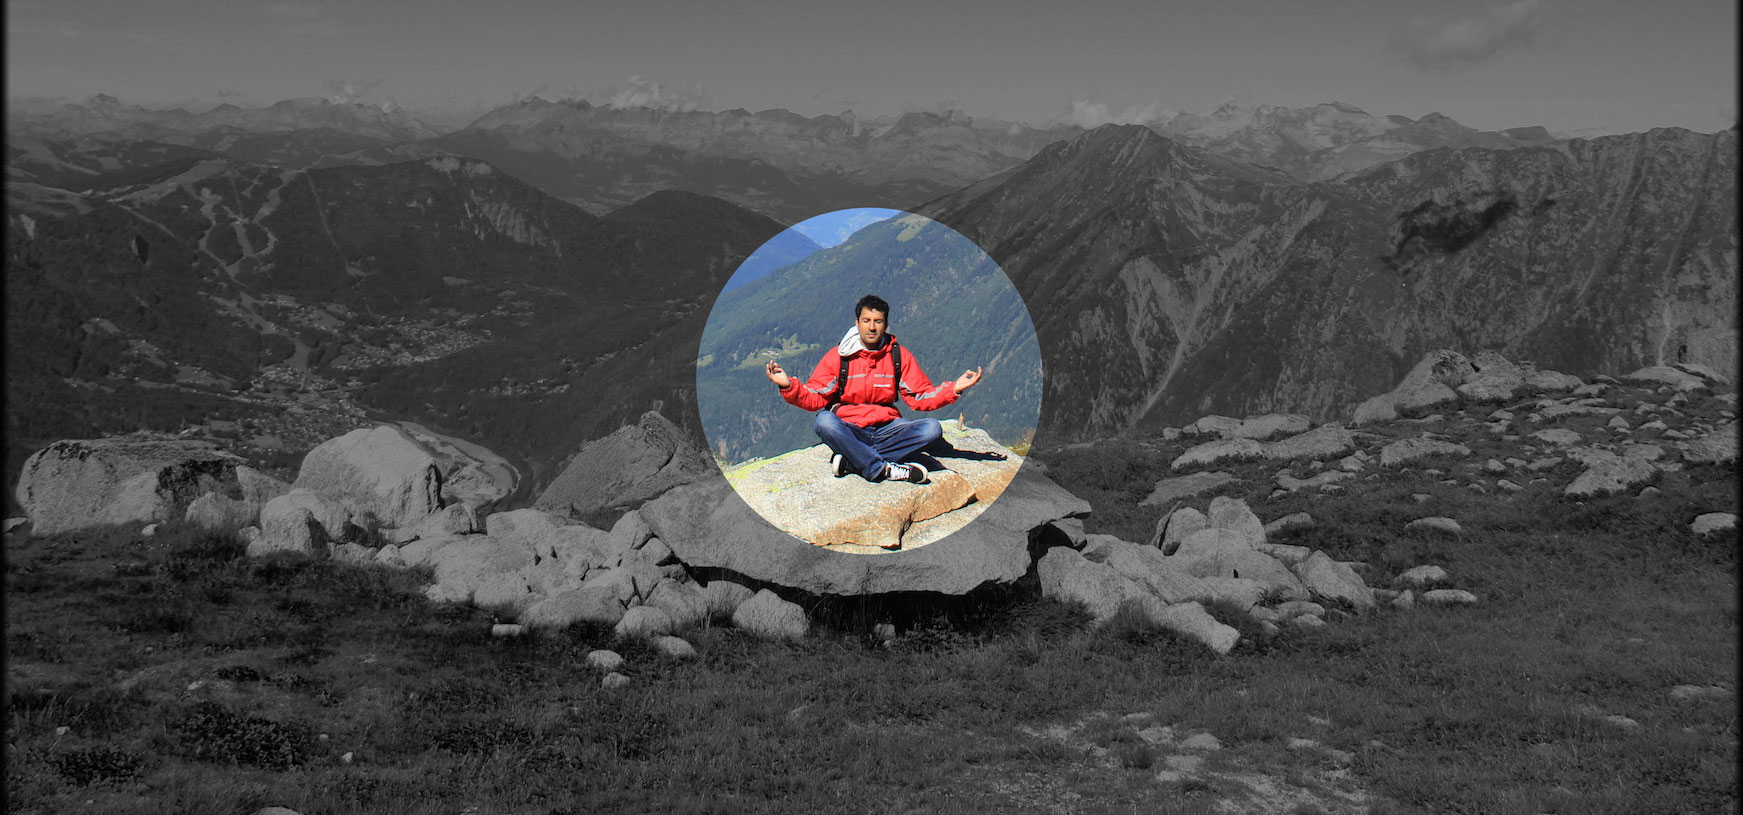
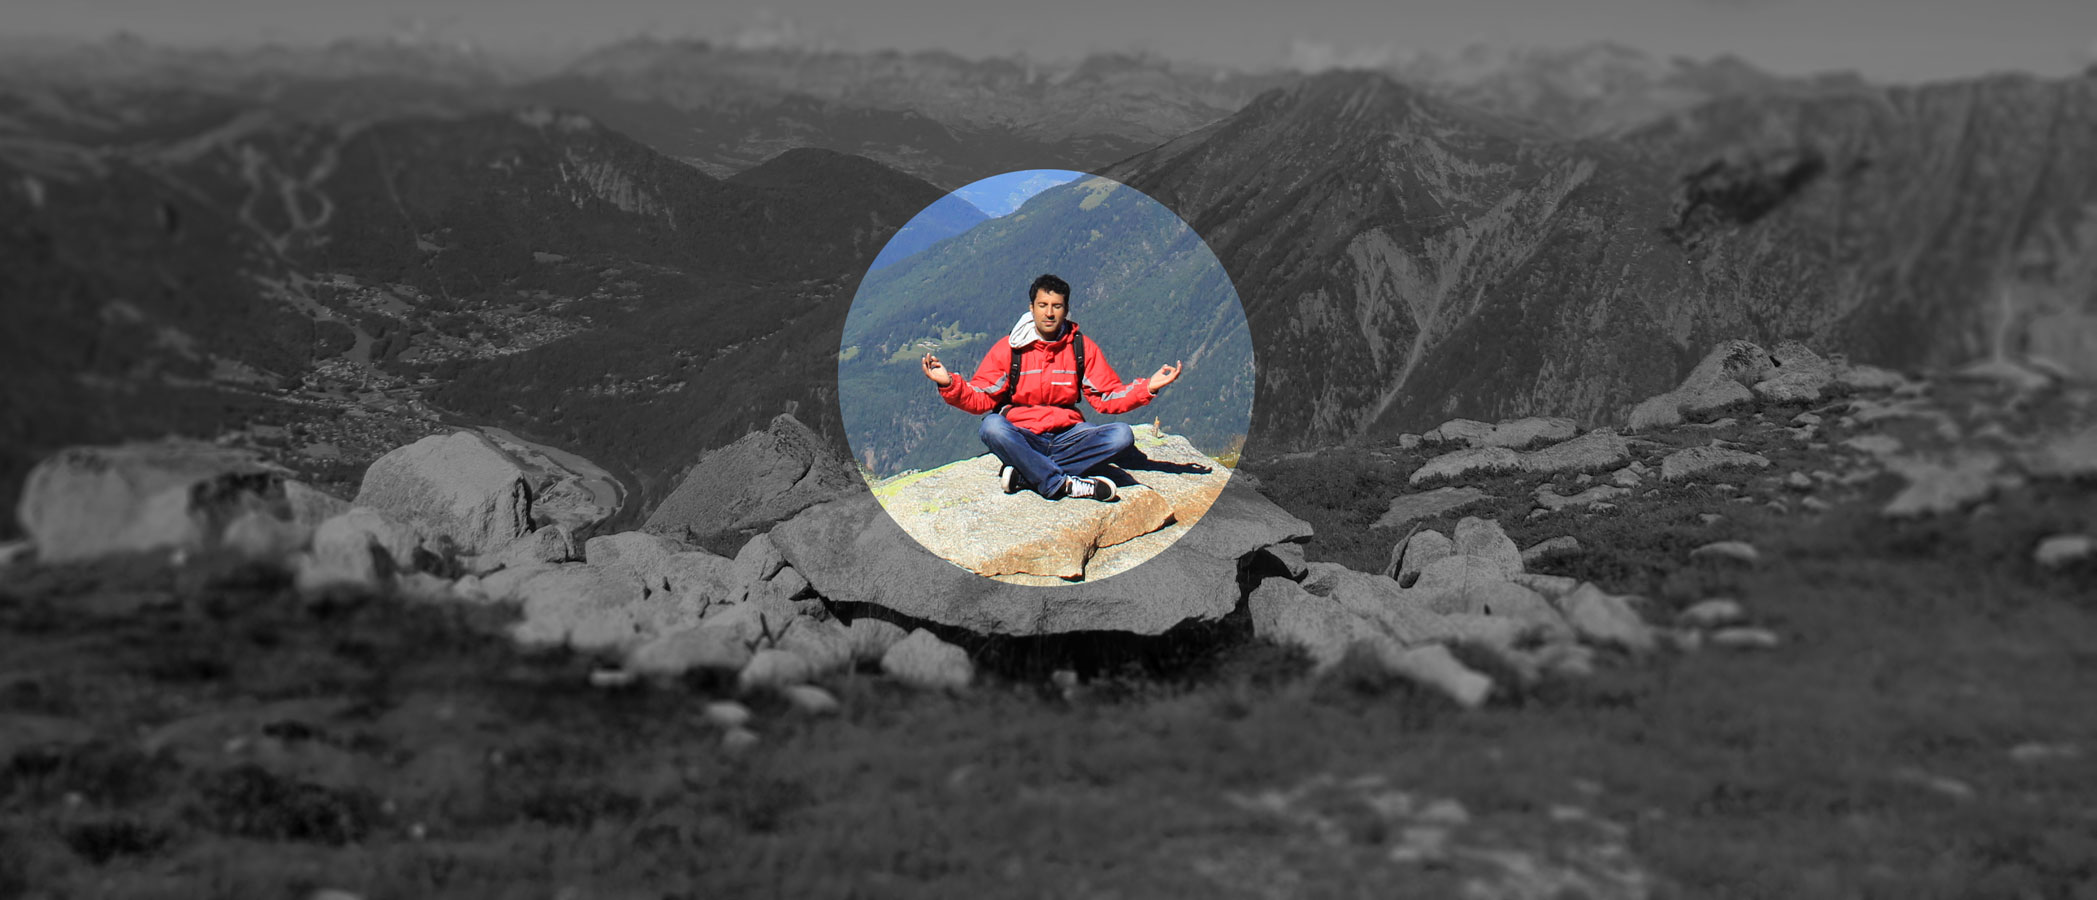
Improve header responsiveness/spacing.

diff --git a/app/styles/main.scss b/app/styles/main.scss
@@ -54,9 +54,7 @@ header {
   position: relative;
   width: 100%;
   height: 100%;
-  // iPhone 5 portrait
-  min-height: 568px;
-  max-height: 800px;
+  min-height: 620px;
   text-align: center;
   color: #fff;
   background-image: url("../images/header-background.jpg");
@@ -75,11 +73,18 @@ header {
     text-shadow: 0 1px 3px rgba(0, 0, 0, .8);
     margin: 0;
   }
+  h2 {
+    font-size: 40px;
+    font-weight: bold;
+    text-align: center;
+    text-shadow: 0 1px 3px rgba(0, 0, 0, .8);
+    margin: 0;
+  }
   p {
-    margin: 10px 0;
+    margin: 10px 0 6px;
   }
   .social {
-    margin: 10px 0 0;
+    margin: 0;
     padding: 0;
     font-size: 34px;
     text-shadow: 0 1px 2px rgba(0, 0, 0, .8);
@@ -119,31 +124,25 @@ header {
   position: absolute;
   width: 100%;
   // Half way between the top of the circle and the top of the div.
-  top: 16%;
-  // Roughly 50% of the div content height.
-  margin-top: -23px;
+  top: 9%;
 }
 .header-content-bottom {
   position: absolute;
   width: 100%;
-  bottom: 16%;
-  margin-bottom: -84px;
+  bottom: 4%;
 }
 @media(min-width: $screen-sm-min) {
   header {
     h1 {
       font-size: 60px;
     }
-  }
-  .header-content-top {
-    margin-top: -28px;
-  }
-  .header-content-bottom {
-    margin-bottom: -90px;
+    h2 {
+      font-size: 45px;
+    }
   }
 }
 section {
-  padding: 70px 0;
+  padding: 50px 0;
 }
 .section-separator {
   max-width: 90%;

diff --git a/app/index.html b/app/index.html
@@ -53,8 +53,8 @@
       <h1>Hi.</h1>
     </div>
     <div class="header-content-bottom">
-      <h1>I'm Shyam.</h1>
-      <p class="intro-text">I'm a
+      <h2>I'm Shyam.</h2>
+      <p>I'm a
         <span class="em1">Software Engineer</span> and
         <span class="em2">Game Developer</span>
         <br>with a passion for crafting satisfying user experiences,
